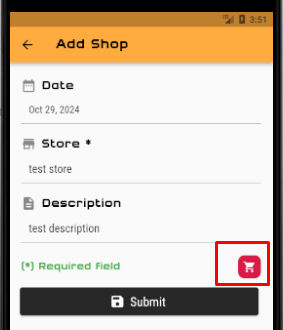
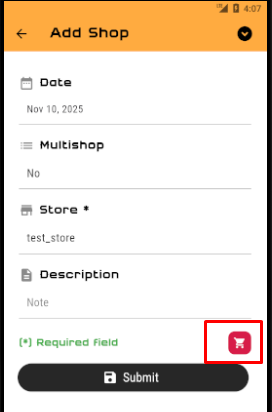
'renew-nov-11-2025'

diff --git a/tutorial/index.html b/tutorial/index.html
@@ -133,9 +133,26 @@
     it will show notification at the bottom screen : <br/><br/>
     <img src="image/shop/add_shop_7.png"><br/><br/>
 
-    To check tour transaction you can visit <a onclick="alt('hst')" class="list">history page</a>.
+    <h2>Multi Shop</h2>
+
+    Multishop is to note your transaction temporarily,<br/> you can decide whether want to delete it or save it into history
+    Just do the same as first transaction but choose multishop form <b>Yes</b>: <br/><br/>
+    <img src="image/shop/add_shop_8.png"><br/><br/>
+    <img src="image/shop/add_shop_9.png"><br/><br/>
+    <img src="image/shop/add_shop_10.png"><br/><br/>
+
+    Afterward tap on button, you will be redirected back to multi shop page : <br/><br/>
+    <div class="text-center"><img src="image/shop/add_shop_11.png"></div><br/>
+    <div class="text-center"><img src="image/shop/add_shop_12.png"></div><br/>
+    <div class="text-center"><img src="image/shop/add_shop_13.png"></div><br/>
+
+    To check your transactions you can visit <a onclick="alt('hst')" class="list">history page</a>.
     </p>
-</div>
+
+    <i>
+        Source : Image generated with Google Gemini<br/>
+    </i>
+</div><!-- end tutorial -->
 
 <div class="tutorial d-none" id="hst">
     <h2>History</h2>
@@ -147,10 +164,18 @@
         <img src="image/history/history_0.png"><br/><br/>
         <img src="image/history/history_1.png"><br/><br/>
         <div>
-            Form <b>A</b> : indicates which date the transaction that you want to see.<br/><br/>
+            Form <b>A</b> : indicates which transaction range that you want to see.<br/><br/>
+            <img src="image/history/history_2.png"><br/><br/>
+
+            Form <b>A1</b> : indicates which date the transaction that you want to see.<br/><br/>
             <img src="image/history/history_2A.png"><br/><br/>
+            
             The arrows indicates to show calendar as options to change the date : <br/><br/>
             <img src="image/history/history_2Ax.png"><br/><br/>
+
+            Form <b>A2</b> : indicates if want to see the entire records, <b>WARNING</b> : this may slow your app.<br/><br/>
+            <img src="image/history/history_2b1.png"><br/><br/>
+            
         </div>
         <br/>
         <div>
@@ -168,6 +193,21 @@
         The history data can be displayed as charts also : <br/><br/>
         <img src="image/history/history_3.png"><br/><br/>
         The button <b>Show Calendar</b> will also have same effects as calendar icon at report page.
+    </p>
+    <p>
+        <h3>C.Show Overall</h3>
+        Show total spending according on recorded currency<br/><br/>
+        <img src="image/history/history_4.png"><br/><br/>
+        <b>Note : </b> in this case we use USD as example currency,<br/> 
+        in real case it depends on the currency used by you, 
+        for example if on the tutorial we use USD and it's about <b>US$ 7.65</b><br />
+        Then let's say you use different currency like EUR and total EUR 3.55, <br />
+        then it's automatically will show the overall of EUR and USD.<br/><br/>
+
+        if you make another transaction with USD again let say <b>USD 4.35</b>, then the total would accumulate from previous,<br/>
+        so it would be 7.65 + 4.35 = <b>USD 12.00</b>.<br/><br/>
+
+        To change the currency you can open <b>Settings</b> then tab <b>Currency</b>
     </p>
 </div>
 
@@ -258,6 +298,7 @@
             Form <b>A</b> : To add category the same effects as plus button <a class="list" href="#category_add">here</a>.
         </div>
         <br/>
+        <h2>Add Sub Category</h2>
         <div>
             Form <b>B</b> : To display subcategory page, you can create subcategory page here.<br/><br/>
             <img src="image/category/add_sub_category.png"><br/><br/>
